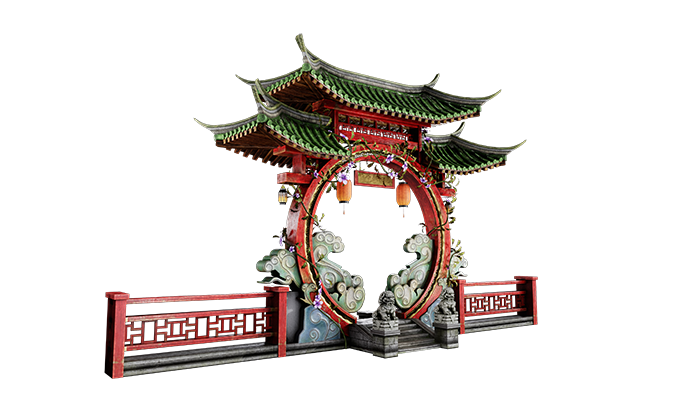
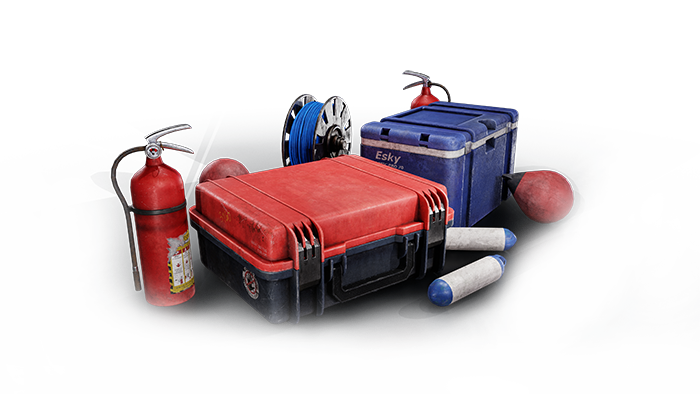
q3wdqw4aaaaaaaa

diff --git a/src/components/WhoWeAre.tsx b/src/components/WhoWeAre.tsx
@@ -16,7 +16,10 @@ const SLIDES = [
    
   },
 
+  {
+    src: "/images/slides/2.png",
 
+  },
    {
     src: "/images/slides/3.png",
    
@@ -29,10 +32,7 @@ const SLIDES = [
     src: "/images/slides/5.png",
 
   },
-  {
-    src: "/images/slides/6.png",
 
-  },
 
 
 
